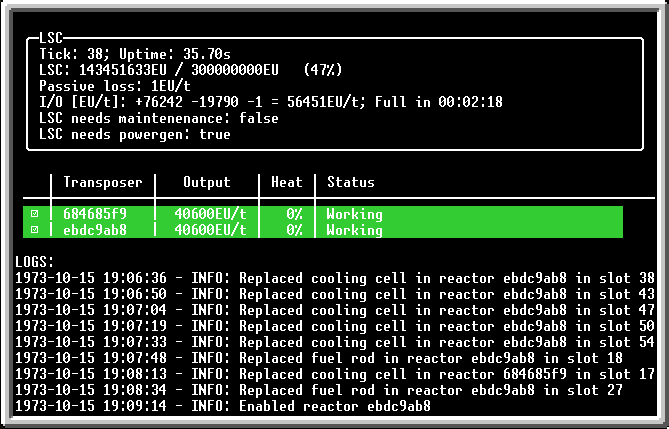
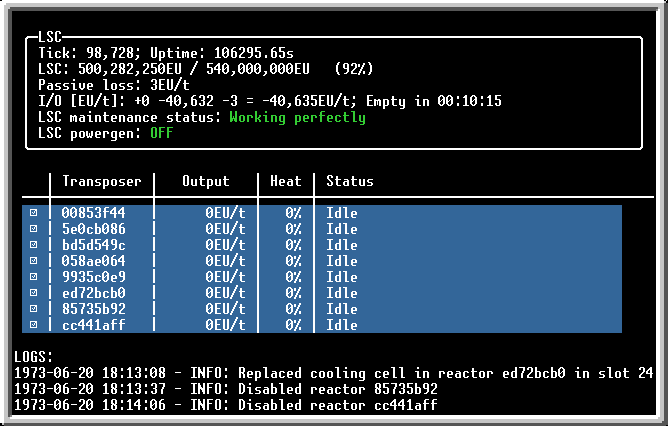
Update readme

diff --git a/README.md b/README.md
@@ -57,11 +57,15 @@ NOTE: the Redstone I/O has one side disabled (with a wrench) such that only one 
 
 The only time you should touch the reactor chamber is to place the components that the script won't touch (reactor platings, heat vents). The fuel rods should be provided by the ME Interface, and coolant cells by one of the minecraft chests. The program automatically fills the reactor before turning it on based on the configuration specified in the code.
 
-Example double reactor setup with vacuum freezers (old GTNH version, required 10x the vacuum freezers):
+Example 8 reactor setup with all the processing required (2.7.3):
 
-![](img/2_reactor_setup.png)
+![](img/8_reactors.png)
 
-[gtnh-flow](https://github.com/OrderedSet86/gtnh-flow) diagram for a single reactor with the default chamber setup (updated for 2.7.3):
+Example setup from ZombieZilla with 16 reactors (2.7.x, tier 3 screen and GPU):
+
+![](img/16_reactors.png)
+
+[gtnh-flow](https://github.com/OrderedSet86/gtnh-flow) diagram for a 8 reactors with the default chamber setup (updated for 2.7.3):
 
 [![](img/default_flow.png)](diagrams/8x40600eut_2.7.3.yaml)
 
@@ -71,7 +75,7 @@ Clicking on a line corresponding to a reactor will toggle it (if disabled like t
 
 Ctrl+C shuts down the program gracefully.
 
-UI with an LSC and 2 reactors:
+UI with an LSC and 8 reactors:
 
 ![](img/ui_with_lsc.png)
 
@@ -87,8 +91,8 @@ Recommended hardware specification:
 - Tier 3 CPU
 - 2x Tier 2 RAM
 - Tier 1 HDD
-- Tier 2 GPU
-- Tier 2 screen (currently the resolution is forced to 80x25)
+- \>=Tier 2 GPU (Tier 3 required if you have more than 8 reactors)
+- \>=Tier 2 screen (Tier 3 required if you have more than 8 reactors)
 
 Optional hardware:
 - Component busses for expansion
